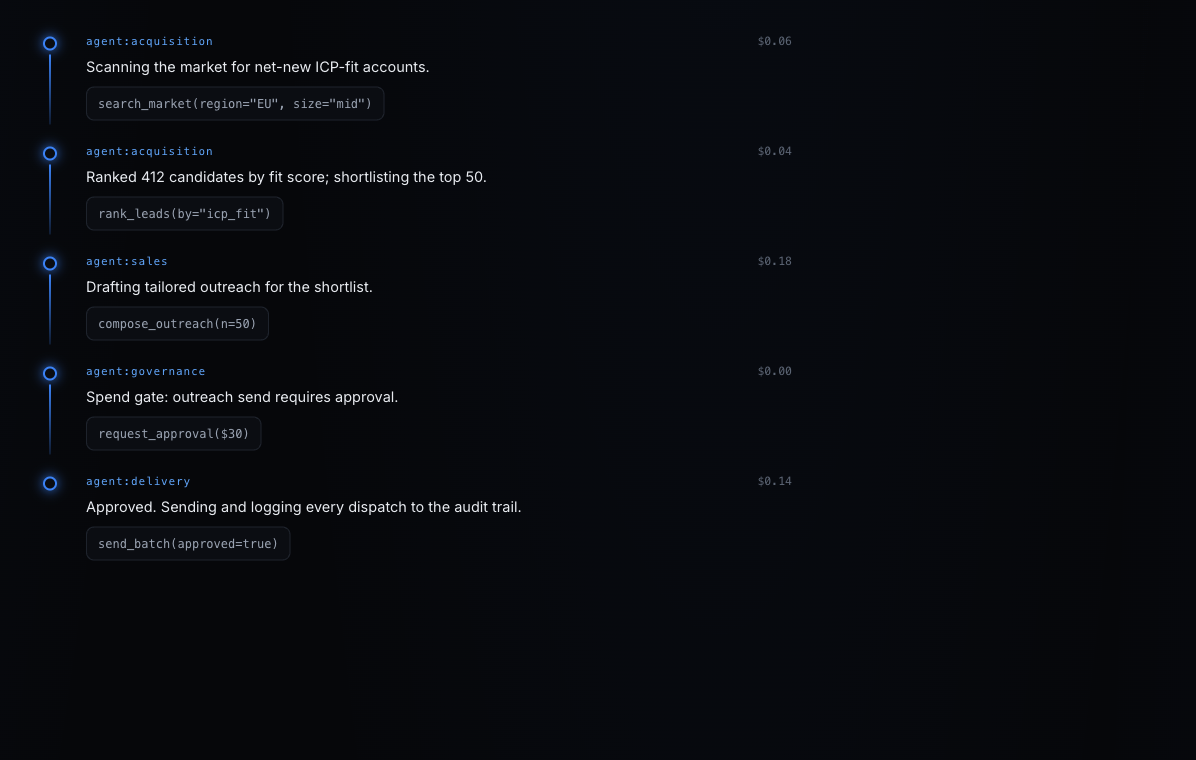
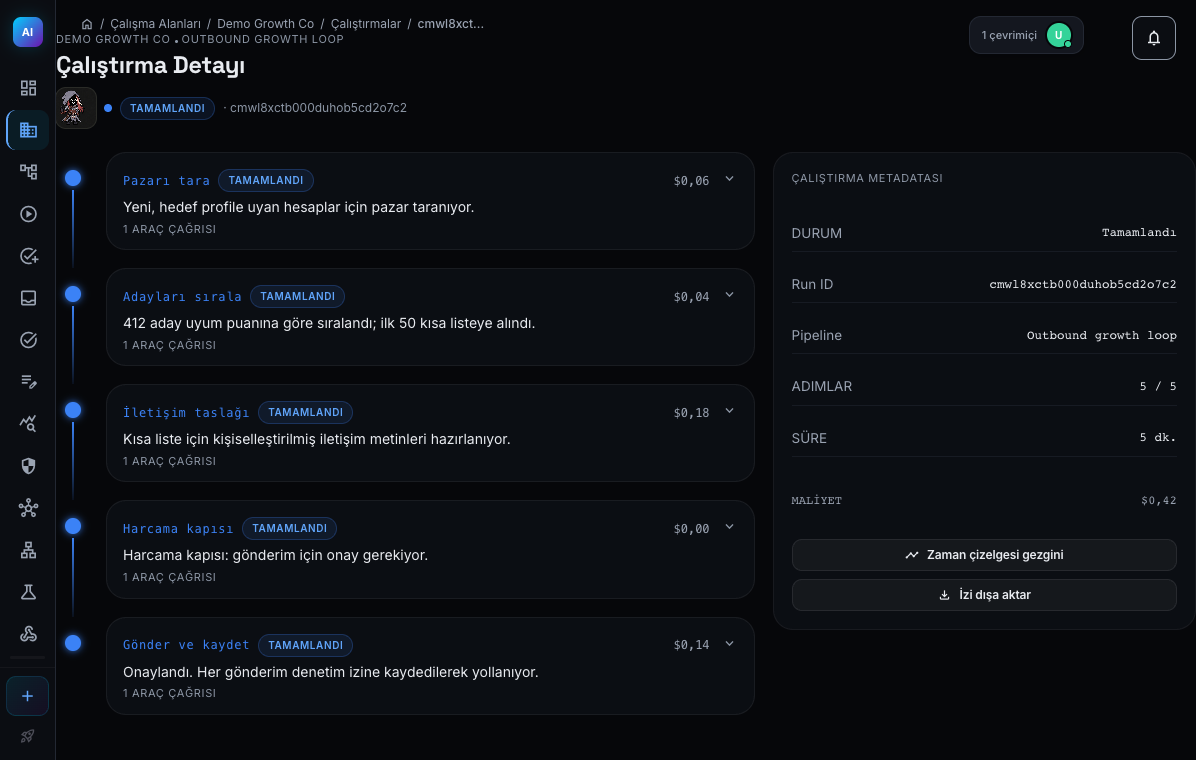
WEB-Y2-01: Braavolabs 2 maket gorsel gercek ekranlarla degistirildi
Kaynak braavolabs/platform main cc3fc09, yerel demo veri, 2026-11-18. Builder
kutusu gorselin kendi oranini kullanir; alt metinler/sourceBuild/capturedAt ve
12 dil EN-yedek cevirileri guncellendi; portfolio-registry yeniden uretildi.

diff --git a/src/components/projects/ProductPage.tsx b/src/components/projects/ProductPage.tsx
@@ -21,6 +21,7 @@ import { projects } from "@/data/projects";
 import { publicRegistry } from "@/data/public-registry";
 import { productShowcase, SHOWCASE_LABELS } from "@/data/product-showcase";
 import { company } from "@/data/company";
+import { IMAGE_DIMENSIONS } from "@/data/image-dimensions";
 import { localized } from "@/lib/localized";
 import { brandInk } from "@/lib/brand-ink";
 import { firstPublicLink, isComingSoon, storeLinksOf } from "@/lib/store-slots";
@@ -335,11 +336,16 @@ export function ProductPage({ project }: { project: ProjectConfig }) {
             <div data-item="4">
               {productShots.length ? (
                 <ul role="list" className="grid grid-cols-1 sm:grid-cols-2 gap-4 list-none p-0 m-0 mb-12">
-                  {productShots.map((shot) => (
-                    <li key={shot.src} className="relative aspect-[16/10] overflow-clip rounded-xl border border-white/10">
-                      <Image src={shot.src} alt={shot.alt} fill sizes="(min-width: 1024px) 40vw, 100vw" className="object-cover object-top" />
-                    </li>
-                  ))}
+                  {productShots.map((shot) => {
+                    // Box follows the capture's own ratio: a wide card (builder, ~2:1)
+                    // must not be cropped to 16:10 and lose its edges.
+                    const dim = IMAGE_DIMENSIONS[shot.src];
+                    return (
+                      <li key={shot.src} className="relative self-start overflow-clip rounded-xl border border-white/10" style={{ aspectRatio: dim ? `${dim.width} / ${dim.height}` : "16 / 10" }}>
+                        <Image src={shot.src} alt={shot.alt} fill sizes="(min-width: 1024px) 40vw, 100vw" className="object-cover object-top" />
+                      </li>
+                    );
+                  })}
                 </ul>
               ) : (
                 <p data-testid="screen-empty" className="mb-12 max-w-[60ch] text-[15px] leading-[1.7] text-ink-300">

diff --git a/src/data/public-registry.ts b/src/data/public-registry.ts
@@ -42,17 +42,17 @@ export const publicRegistry: ProductPublicRecord[] = [
     screenshots: [
       {
         path: "/projects/braavolabs/screenshot-audit-trail.png",
-        sourceBuild: "headless-browser-capture-2026-07-11",
-        capturedAt: "2026-07-11",
-        altTr: "Braavolabs canlı denetim izi: her ajan adımının araç çağrısı ve maliyeti gerçek zamanlı akıyor.",
-        altEn: "Braavolabs live audit trail: every agent step's tool call and cost streaming in real time.",
+        sourceBuild: "braavolabs/platform@cc3fc09cb663 (main, yerel derleme, demo veri)",
+        capturedAt: "2026-11-18",
+        altTr: "Braavolabs Çalıştırma Detayı ekranı: beş adımlı bir denetim izi; her adımın durumu, araç çağrısı sayısı ve maliyeti ile yanda çalıştırma metadatası (demo veri).",
+        altEn: "Braavolabs Run Detail screen: a five-step audit trail showing each step's status, tool-call count and cost, with run metadata beside it (demo data).",
       },
       {
         path: "/projects/braavolabs/screenshot-builder.png",
-        sourceBuild: "headless-browser-capture-2026-07-11",
-        capturedAt: "2026-07-11",
-        altTr: "Braavolabs AI Şirket Kurucusu: tek bir komutla çok-ajanlı bir ekip kuruluyor.",
-        altEn: "Braavolabs AI Company Builder: a single prompt standing up a multi-agent team.",
+        sourceBuild: "braavolabs/platform@cc3fc09cb663 (main, yerel derleme, demo veri)",
+        capturedAt: "2026-11-18",
+        altTr: "Braavolabs AI Şirketi Oluştur ekranı: fikrin yazıldığı açıklama kutusu (örnek metin: Instagram ve TikTok için içerik üreten ve zamanlayan bir ajans) ve Devam düğmesi.",
+        altEn: "Braavolabs Create AI Company screen: the description box where the idea is typed (sample text: an agency that produces and schedules content for Instagram and TikTok) and a Continue button.",
       },
     ],
     claims: [

diff --git a/src/data/projects/braavolabs.ts b/src/data/projects/braavolabs.ts
@@ -39,17 +39,18 @@ export const braavolabs: ProjectConfig = {
     logo: "/projects/braavolabs/logo.png",
     icon: "/projects/braavolabs/icon.png",
     ogImage: "/projects/braavolabs/og.png",
-    // Real captures from the live product (braavolabs.com), not mockups —
-    // harvested 2026-07-11 via headless browser, cropped to the UI itself.
+    // Real captures of the product UI, not mockups — taken 2026-11-18 from a
+    // local build of braavolabs/platform main (cc3fc09) with demo data only
+    // ("Demo Growth Co", invented agent/step text; no personal data).
     screenshots: [
       {
         src: "/projects/braavolabs/screenshot-audit-trail.png",
-        alt: "Braavolabs canlı denetim izi: her ajan adımının araç çağrısı ve maliyeti gerçek zamanlı akıyor.",
+        alt: "Braavolabs Çalıştırma Detayı ekranı: beş adımlı bir denetim izi; her adımın durumu, araç çağrısı sayısı ve maliyeti ile yanda çalıştırma metadatası (demo veri).",
         kind: "product",
       },
       {
         src: "/projects/braavolabs/screenshot-builder.png",
-        alt: "Braavolabs AI Şirket Kurucusu: tek bir komutla çok-ajanlı bir ekip kuruluyor.",
+        alt: "Braavolabs AI Şirketi Oluştur ekranı: fikrin yazıldığı açıklama kutusu (örnek metin: Instagram ve TikTok için içerik üreten ve zamanlayan bir ajans) ve Devam düğmesi.",
         kind: "product",
       },
     ],

diff --git a/src/data/image-dimensions.ts b/src/data/image-dimensions.ts
@@ -7,7 +7,7 @@
  */
 export const IMAGE_DIMENSIONS: Readonly<Record<string, { width: number; height: number }>> = {
   "/projects/braavolabs/screenshot-audit-trail.png": { width: 1196, height: 760 },
-  "/projects/braavolabs/screenshot-builder.png": { width: 560, height: 400 },
+  "/projects/braavolabs/screenshot-builder.png": { width: 1184, height: 576 },
   "/projects/choreia/preview-native-20261016.png": { width: 1206, height: 2622 },
   "/projects/gravita/preview-native-20261016.png": { width: 1206, height: 2622 },
   "/projects/jablab/preview-native-20261016.png": { width: 1206, height: 2622 },
